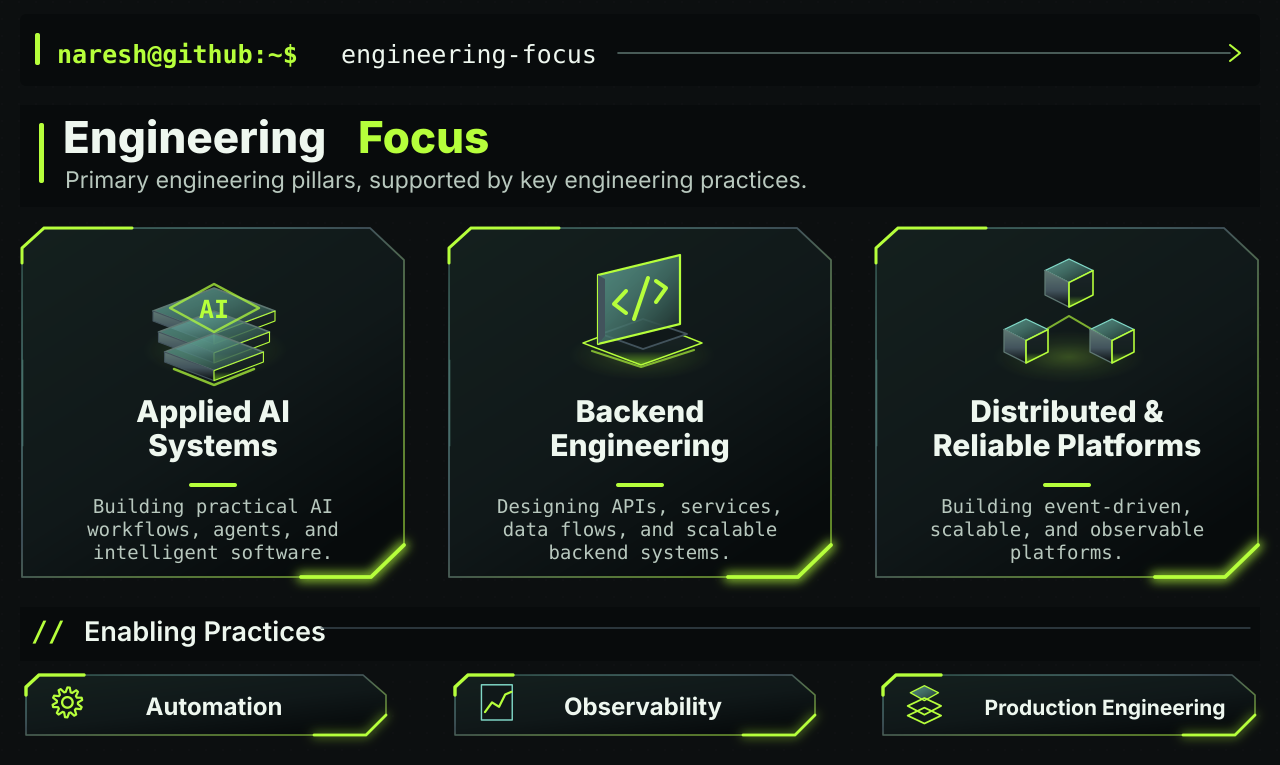
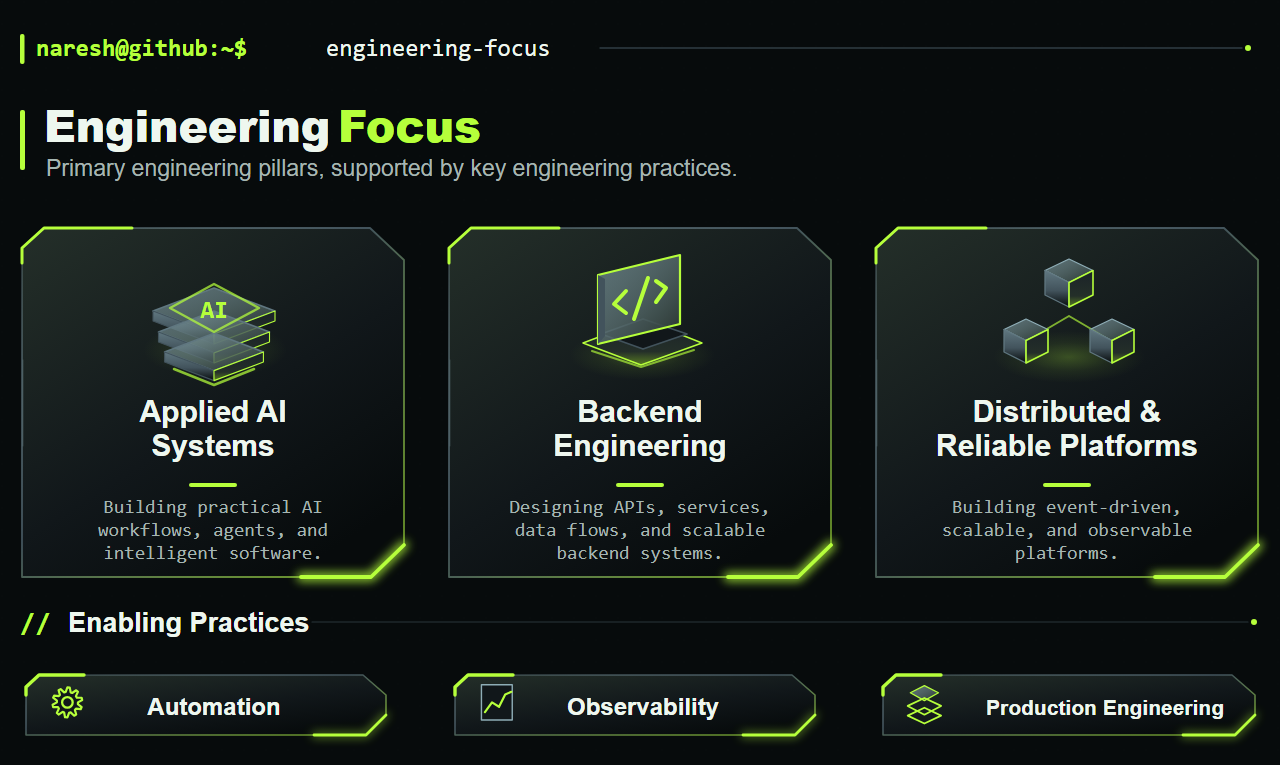
fix(engineering-focus): remove enclosing command box and unify background with hero gif (#070B0C)

diff --git a/scripts/build_engineering_focus.py b/scripts/build_engineering_focus.py
@@ -30,18 +30,27 @@ if central.exists():
     if selected not in settings['presets']:
         raise ValueError('Unknown active theme in design/themes.json: '+selected)
     chosen=settings['presets'][selected]
-    base=chosen['base'];surface=chosen['surface'];accent=chosen['accent'];text_primary=chosen['text'];steel=chosen['stroke'];secondary=chosen['secondary']
-    C={
-      'base':base,'surface':surface,'steel':steel,'accent':accent,'text':text_primary,
-      'deep':blend(base,'#000000',.28),
-      'surfaceDeep':blend(surface,base,.50),
-      'surfaceRaised':blend(surface,accent,.055),
-      'edge':blend(steel,secondary,.40),
-      'textSecondary':chosen.get('muted',blend(text_primary,base,.30)),
-      'muted':chosen.get('muted',secondary),
-      'aquaHighlight':secondary,
-      'limeShadow':blend(accent,base,.54),
-      'transparent':'#000000',
+    base = '#070B0C'
+    surface = chosen['surface']
+    accent = chosen['accent']
+    text_primary = chosen['text']
+    steel = chosen['stroke']
+    secondary = chosen['secondary']
+    C = {
+      'base': '#070B0C',
+      'surface': surface,
+      'steel': steel,
+      'accent': accent,
+      'text': text_primary,
+      'deep': '#070B0C',
+      'surfaceDeep': blend(surface, '#070B0C', .50),
+      'surfaceRaised': blend(surface, accent, .055),
+      'edge': blend(steel, secondary, .40),
+      'textSecondary': chosen.get('muted', blend(text_primary, '#070B0C', .30)),
+      'muted': chosen.get('muted', secondary),
+      'aquaHighlight': secondary,
+      'limeShadow': blend(accent, '#070B0C', .54),
+      'transparent': '#000000',
     }
 else:
     C=T['colors']
@@ -66,7 +75,7 @@ def shared_defs() -> str:
       <radialGradient id="softLight"><stop offset="0" stop-color="{A}" stop-opacity=".23"/><stop offset=".55" stop-color="{A}" stop-opacity=".07"/><stop offset="1" stop-color="{A}" stop-opacity="0"/></radialGradient>
       <filter id="glow" x="-80%" y="-80%" width="260%" height="260%"><feGaussianBlur stdDeviation="5"/></filter>
       <filter id="glowSmall" x="-80%" y="-80%" width="260%" height="260%"><feGaussianBlur stdDeviation="2.6"/></filter>
-      <pattern id="dots" width="17" height="17" patternUnits="userSpaceOnUse"><circle cx="2" cy="2" r=".75" fill="{C['steel']}" opacity=".27"/></pattern>
+      <pattern id="dots" width="22" height="22" patternUnits="userSpaceOnUse"><circle cx="2" cy="2" r=".75" fill="{C['steel']}" opacity=".18"/></pattern>
       <clipPath id="clipPanel"><rect x="0" y="0" width="1280" height="765"/></clipPath>
     </defs>'''
 
@@ -166,32 +175,27 @@ def make_section(background: bool):
     w,h=1280,765
     p=[svg_open(w,h, 'Engineering Focus — Applied AI Systems, Backend Engineering, Distributed & Reliable Platforms')]
     if background:
-        p.extend([f'<rect width="{w}" height="{h}" fill="{C["base"]}"/>',f'<rect width="{w}" height="{h}" fill="url(#dots)" opacity=".38"/>'])
+        p.extend([f'<rect width="{w}" height="{h}" fill="#070B0C"/>',f'<rect width="{w}" height="{h}" fill="url(#dots)" opacity=".18"/>'])
     else:
-        # A non-card dark technical surface under everything ensures readability in either GitHub theme;
-        # the SVG viewport beyond the section is still alpha transparent.
         p.append('<g id="background-alpha" opacity="1"><rect x="0" y="0" width="1280" height="765" fill="none"/></g>')
-    # command separator always sits on a dark self-contained band for light-mode readability
+    # Clean open command separator matching terminal header style with no enclosing box
     p += ['<g id="command-separator">',
-          f'<rect x="20" y="14" width="1240" height="72" rx="6" fill="{C["deep"]}" opacity=".94"/>',
-          '<rect x="35" y="33" width="5" height="32" rx="2" fill="'+A+'"/>',
-          text(57,63,'naresh@github:~$',25,A,700,family='mono'),
-          text(341,63,DATA['section']['command'],25,C['text'],400,family='mono'),
-          path('M 618 53 H 1230',C['edge'],width=1.5),
-          path('M 1230 45 L 1240 53 L 1230 61',A,width=2),'</g>']
-    # heading band not card-shaped
+          '<rect x="20" y="34" width="4.5" height="30" rx="2" fill="'+A+'"/>',
+          text(36,56,'naresh@github:~$',24,A,700,family='mono'),
+          text(326,56,DATA['section']['command'],24,C['text'],400,family='mono'),
+          path('M 600 48 H 1242',C['steel'],width=1.3,extra='opacity=".7"'),
+          f'<circle cx="1248" cy="48" r="3" fill="{A}"/>','</g>']
+    # Heading area with no enclosing box
     p += ['<g id="heading">',
-          f'<rect x="20" y="105" width="1240" height="102" fill="{C["deep"]}" opacity=".93"/>',
-          f'<rect x="39" y="123" width="5" height="60" rx="2" fill="{A}"/>',
-          text(63,153,'Engineering',44,C['text'],800),
-          text(358,153,'Focus',44,A,800),
-          text(65,188,DATA['section']['subtitle'],23,C['textSecondary'],400),
+          f'<rect x="20" y="110" width="5" height="60" rx="2" fill="{A}"/>',
+          text(44,142,'Engineering',44,C['text'],800),
+          text(338,142,'Focus',44,A,800),
+          text(46,176,DATA['section']['subtitle'],23,C['textSecondary'],400),
           '</g>']
-    # card geometry
+    # Card geometry
     positions=[(20,226),(447,226),(874,226)]
     for i, pillar in enumerate(DATA['pillars']):
         x,y=positions[i]
-        # frame and per-card internal content
         p.append(f'<g id="pillar-{pillar["id"]}" transform="translate({x},{y})">')
         p.append(pod_asset(386,353))
         p.append(f'<g transform="translate(100,14)">{[icon_ai(),icon_backend(),icon_distributed()][i]}</g>')
@@ -202,11 +206,12 @@ def make_section(background: bool):
         for j,ln in enumerate(pillar['descriptionLines']):
             p.append(text(193,287+j*23,ln,19,C['textSecondary'],400,'middle',family='mono'))
         p.append('</g>')
+    # Practice heading with no enclosing box
     p += ['<g id="practice-heading">',
-        f'<rect x="20" y="607" width="1240" height="54" fill="{C["deep"]}" opacity=".94"/>',
-        text(31,641,'//',28,A,700,family='mono'),
-        text(84,641,'Enabling Practices',27,C['text'],600),
-        path('M 321 628 H 1250',C['steel'],width=1.2),'</g>']
+        text(20,632,'//',28,A,700,family='mono'),
+        text(68,632,'Enabling Practices',27,C['text'],600),
+        path('M 312 622 H 1248',C['steel'],width=1.2,extra='opacity=".6"'),
+        f'<circle cx="1254" cy="622" r="3" fill="{A}"/>','</g>']
     pills=[(23,672,366),(452,672,366),(880,672,378)]
     for i, practice in enumerate(DATA['practices']):
         x,y,pw=pills[i]
@@ -219,12 +224,13 @@ def make_section(background: bool):
     return '\n'.join(p)
 
 def make_separator():
-    p=[svg_open(1280,85,'Terminal section divider: engineering-focus')]
-    p += [f'<rect x="8" y="7" width="1264" height="70" fill="{C["deep"]}" rx="3"/>',
-      f'<rect x="22" y="28" width="4" height="27" fill="{A}"/>',
-      text(48,53,'naresh@github:~$',26,A,700,family='mono'),
-      text(340,53,'engineering-focus',26,C['text'],400,family='mono'),
-      path('M 645 44 H 1252',C['edge'],width=1.3), '</svg>']
+    p=[svg_open(1280,56,'Terminal section divider: engineering-focus')]
+    p += [
+      text(20,38,'naresh@github:~$',24,A,700,family='mono'),
+      text(310,38,'engineering-focus',24,C['text'],400,family='mono'),
+      path('M 580 30 H 1248',C['steel'],width=1.3,extra='opacity=".7"'),
+      f'<circle cx="1254" cy="30" r="3" fill="{A}"/>',
+      '</svg>']
     return '\n'.join(p)
 
 def make_frame():

diff --git a/scripts/render_ef_preview.py b/scripts/render_ef_preview.py
@@ -1,0 +1,33 @@
+import subprocess
+import tempfile
+from pathlib import Path
+
+ROOT = Path(__file__).resolve().parents[1]
+chrome = r"C:\Program Files\Google\Chrome\Application\chrome.exe"
+svg_file = ROOT / "assets" / "engineering-focus" / "engineering-focus-dark.svg"
+out_png = ROOT / "assets" / "engineering-focus" / "previews" / "engineering-focus-dark-preview.png"
+
+html = f"""<!doctype html><html><head><meta charset="utf-8"><style>
+* {{ margin:0; padding:0; box-sizing:border-box; }}
+html, body {{ width:1280px; height:765px; overflow:hidden; background:#070B0C; }}
+img {{ display:block; width:1280px; height:765px; }}
+</style></head><body><img src="file:///{svg_file.as_posix()}" width="1280" height="765"/></body></html>"""
+
+tmp_html = ROOT / "previews" / "ef_render.html"
+tmp_html.write_text(html, encoding='utf-8')
+tmp = tempfile.mkdtemp()
+cmd = [
+    chrome,
+    "--headless=new",
+    "--disable-gpu",
+    "--no-sandbox",
+    f"--user-data-dir={tmp}",
+    "--window-size=1280,765",
+    "--hide-scrollbars",
+    f"--screenshot={out_png}",
+    f"file:///{tmp_html.as_posix()}"
+]
+subprocess.run(cmd, check=True)
+if tmp_html.is_file():
+    tmp_html.unlink()
+print("Rendered fresh preview PNG to:", out_png)
